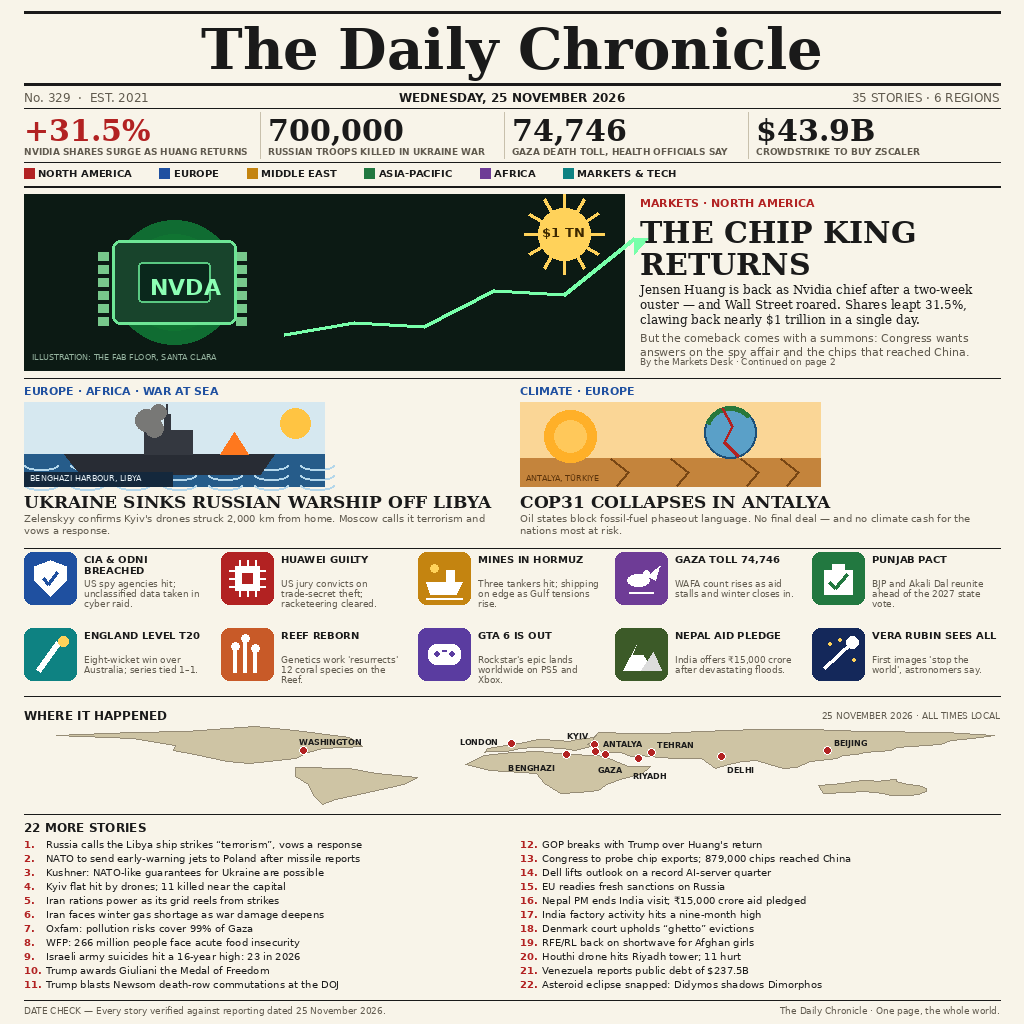
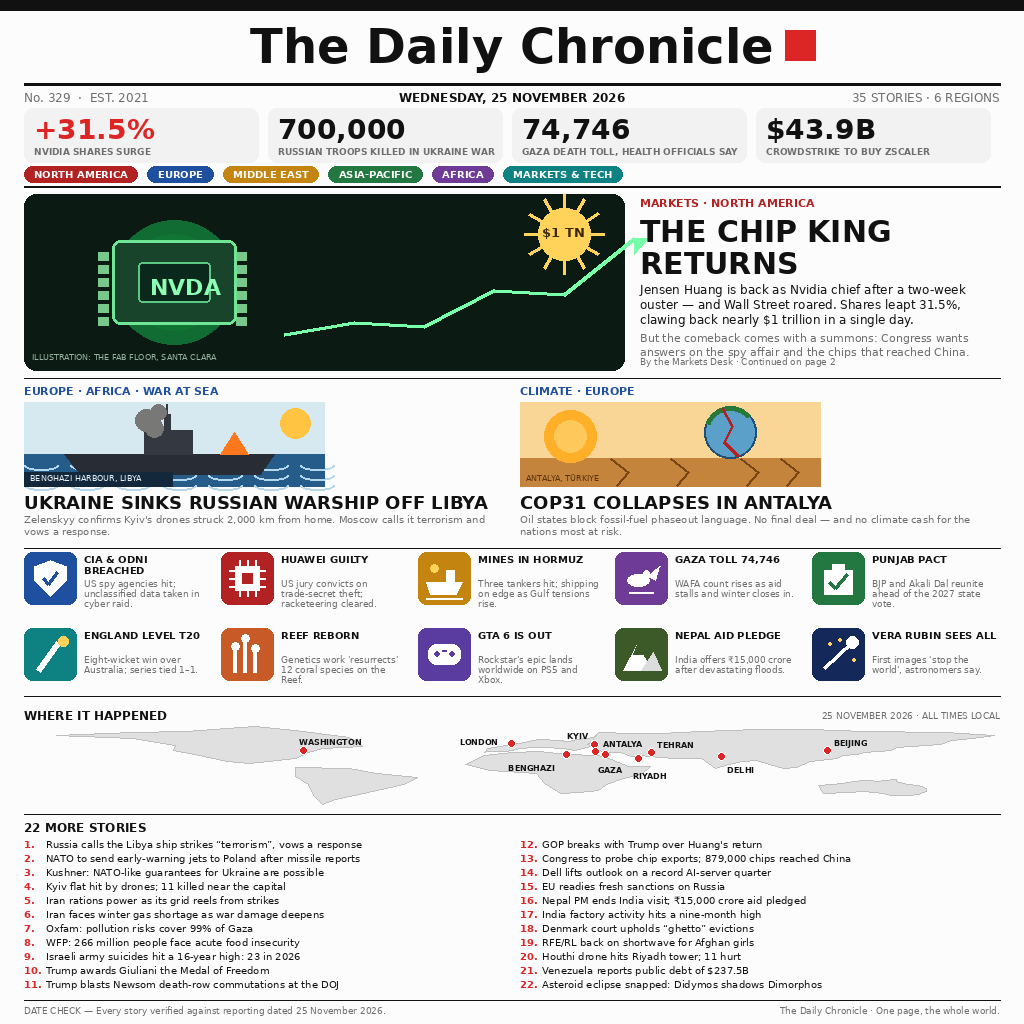
Modern restyle: white paper, sans headlines, stat cards, pill region tags

diff --git a/render.py b/render.py
@@ -9,11 +9,11 @@ import math
 from PIL import Image, ImageDraw, ImageFont
 
 W, H = 1024, 1024
-PAPER = (248, 244, 233)
-INK = (26, 26, 26)
-RULE = (26, 26, 26)
-MUTED = (96, 90, 78)
-RED = (178, 34, 34)
+PAPER = (252, 252, 252)
+INK = (17, 17, 17)
+RULE = (17, 17, 17)
+MUTED = (110, 110, 110)
+RED = (220, 38, 38)
 
 SERIF = "/usr/share/fonts/truetype/dejavu/DejaVuSerif.ttf"
 SERIF_B = "/usr/share/fonts/truetype/dejavu/DejaVuSerif-Bold.ttf"
@@ -74,11 +74,12 @@ d = ImageDraw.Draw(img)
 MX = 24  # margin
 
 # ---------------------------------------------------------------- masthead
-hline(d, MX, W - MX, 12, 3)
-f_mast = font(SERIF_B, 56)
+d.rectangle([0, 0, W, 10], fill=INK)
+f_mast = font(SANS_B, 48)
 title = "The Daily Chronicle"
 tw = d.textlength(title, font=f_mast)
-d.text(((W - tw) / 2, 16), title, font=f_mast, fill=INK)
+d.text(((W - tw) / 2, 18), title, font=f_mast, fill=INK)
+d.rectangle([(W + tw) / 2 + 12, 30, (W + tw) / 2 + 42, 60], fill=RED)
 hline(d, MX, W - MX, 84, 3)
 f_sub = font(SANS, 12)
 d.text((MX, 90), "No. 329  \u00b7  EST. 2021", font=f_sub, fill=MUTED)
@@ -90,22 +91,20 @@ d.text((W - MX - d.textlength("35 STORIES \u00b7 6 REGIONS", font=f_sub), 90),
 
 # ---------------------------------------------------------------- big numbers
 NUMBERS = [
-    ("+31.5%", "NVIDIA SHARES SURGE AS HUANG RETURNS"),
+    ("+31.5%", "NVIDIA SHARES SURGE"),
     ("700,000", "RUSSIAN TROOPS KILLED IN UKRAINE WAR"),
     ("74,746", "GAZA DEATH TOLL, HEALTH OFFICIALS SAY"),
     ("$43.9B", "CROWDSTRIKE TO BUY ZSCALER"),
 ]
 y0, y1 = 108, 162
-hline(d, MX, W - MX, y0, 1)
 col_w = (W - 2 * MX) / 4
 for i, (num, label) in enumerate(NUMBERS):
     x = MX + i * col_w
-    if i:
-        d.line([(x - 8, y0 + 4), (x - 8, y1 - 4)], fill=(200, 192, 172), width=1)
-    fn = font(SERIF_B, 30)
-    d.text((x, y0 + 4), num, font=fn, fill=RED if i == 0 else INK)
-    para(d, x, y0 + 38, label, font(SANS_B, 9), col_w - 16, fill=MUTED, leading=1)
-hline(d, MX, W - MX, y1, 1)
+    d.rounded_rectangle([x, y0, x + col_w - 10, y1], radius=8,
+                        fill=(242, 242, 242))
+    fn = font(SANS_B, 28)
+    d.text((x + 10, y0 + 5), num, font=fn, fill=RED if i == 0 else INK)
+    para(d, x + 10, y0 + 38, label, font(SANS_B, 9), col_w - 26, fill=MUTED, leading=1)
 
 # ---------------------------------------------------------------- region bar
 y = 168
@@ -113,15 +112,15 @@ x = MX
 f_reg = font(SANS_B, 10)
 for name, color in REGIONS:
     tw = d.textlength(name, font=f_reg)
-    d.rectangle([x, y, x + 10, y + 10], fill=color)
-    d.text((x + 14, y - 1), name, font=f_reg, fill=INK)
-    x += 10 + 14 + tw + 18
+    d.rounded_rectangle([x, y - 2, x + tw + 20, y + 14], radius=8, fill=color)
+    d.text((x + 10, y), name, font=f_reg, fill=(255, 255, 255))
+    x += tw + 20 + 10
 hline(d, MX, W - MX, 186, 2)
 
 # ---------------------------------------------------------------- hero: NVIDIA
 HX, HY, HW, HH = MX, 194, 600, 176
 # illustration panel: dark fab floor, glowing chip, rising chart
-d.rectangle([HX, HY, HX + HW, HY + HH], fill=(12, 26, 20))
+d.rounded_rectangle([HX, HY, HX + HW, HY + HH], radius=12, fill=(12, 26, 20))
 # glow behind chip
 for r, a in [(62, 18), (48, 26), (34, 38)]:
     d.ellipse([HX + 150 - r, HY + 88 - r, HX + 150 + r, HY + 88 + r],
@@ -161,13 +160,13 @@ d.text((HX + 8, HY + HH - 18), "ILLUSTRATION: THE FAB FLOOR, SANTA CLARA",
 TX = HX + HW + 16
 TW = W - MX - TX
 kicker(d, TX, HY + 2, "Markets \u00b7 North America", REGIONS[0][1])
-f_h1 = font(SERIF_B, 30)
+f_h1 = font(SANS_B, 30)
 y = para(d, TX, HY + 20, "THE CHIP KING RETURNS", f_h1, TW, leading=2)
 y = para(d, TX, y + 4,
          "Jensen Huang is back as Nvidia chief after a two-week ouster "
          "\u2014 and Wall Street roared. Shares leapt 31.5%, clawing back "
          "nearly $1 trillion in a single day.",
-         font(SERIF, 12), TW, leading=3)
+         font(SANS, 12), TW, leading=3)
 y = para(d, TX, y + 4,
          "But the comeback comes with a summons: Congress wants answers "
          "on the spy affair and the chips that reached China.",
@@ -213,7 +212,7 @@ d.polygon([(IX + 196, IY + 52), (IX + 210, IY + 30), (IX + 224, IY + 52)],
 d.rectangle([IX, IY + IH - 14, IX + 148, IY + IH], fill=(20, 40, 60))
 d.text((IX + 6, IY + IH - 13), "BENGHAZI HARBOUR, LIBYA",
        font=font(SANS, 8), fill=(230, 240, 245))
-f_h2 = font(SERIF_B, 17)
+f_h2 = font(SANS_B, 18)
 y = para(d, PX, RY + 108, "UKRAINE SINKS RUSSIAN WARSHIP OFF LIBYA",
          f_h2, PW, leading=1)
 para(d, PX, y + 2,
@@ -382,8 +381,8 @@ CONTINENTS = [
      (130, -13), (126, -14), (122, -17), (118, -20)],
 ]
 for poly in CONTINENTS:
-    d.polygon([ll(lon, lat) for lon, lat in poly], fill=(206, 196, 164),
-              outline=(150, 140, 118))
+    d.polygon([ll(lon, lat) for lon, lat in poly], fill=(224, 224, 224),
+              outline=(190, 190, 190))
 DOTS = [
     ("WASHINGTON", -77, 38.9, -4, -14),
     ("LONDON", -0.1, 51.5, -52, -6),
